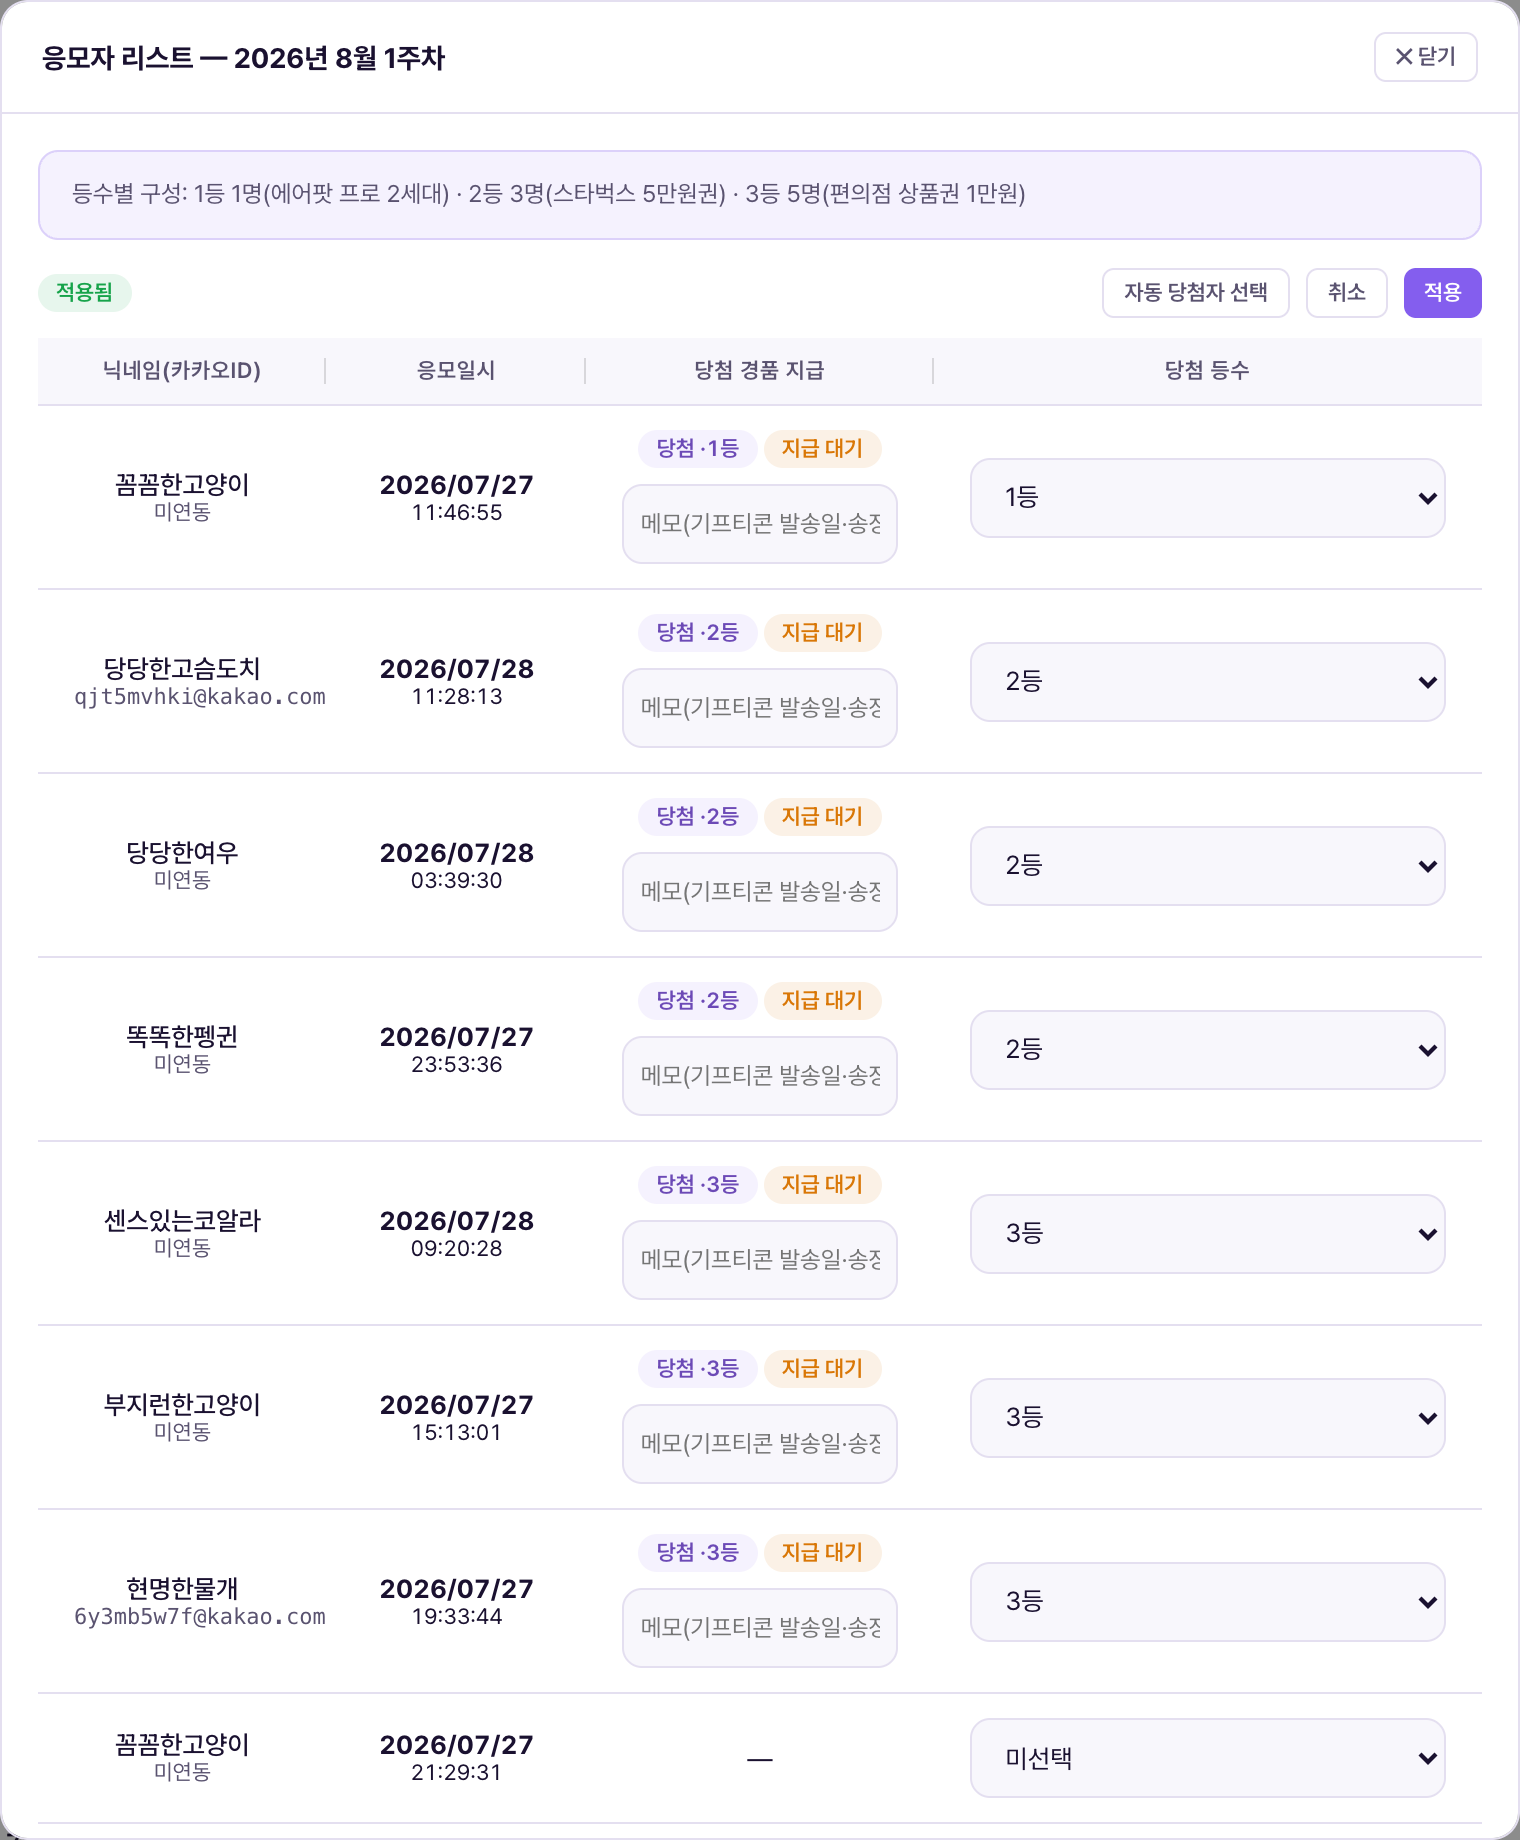
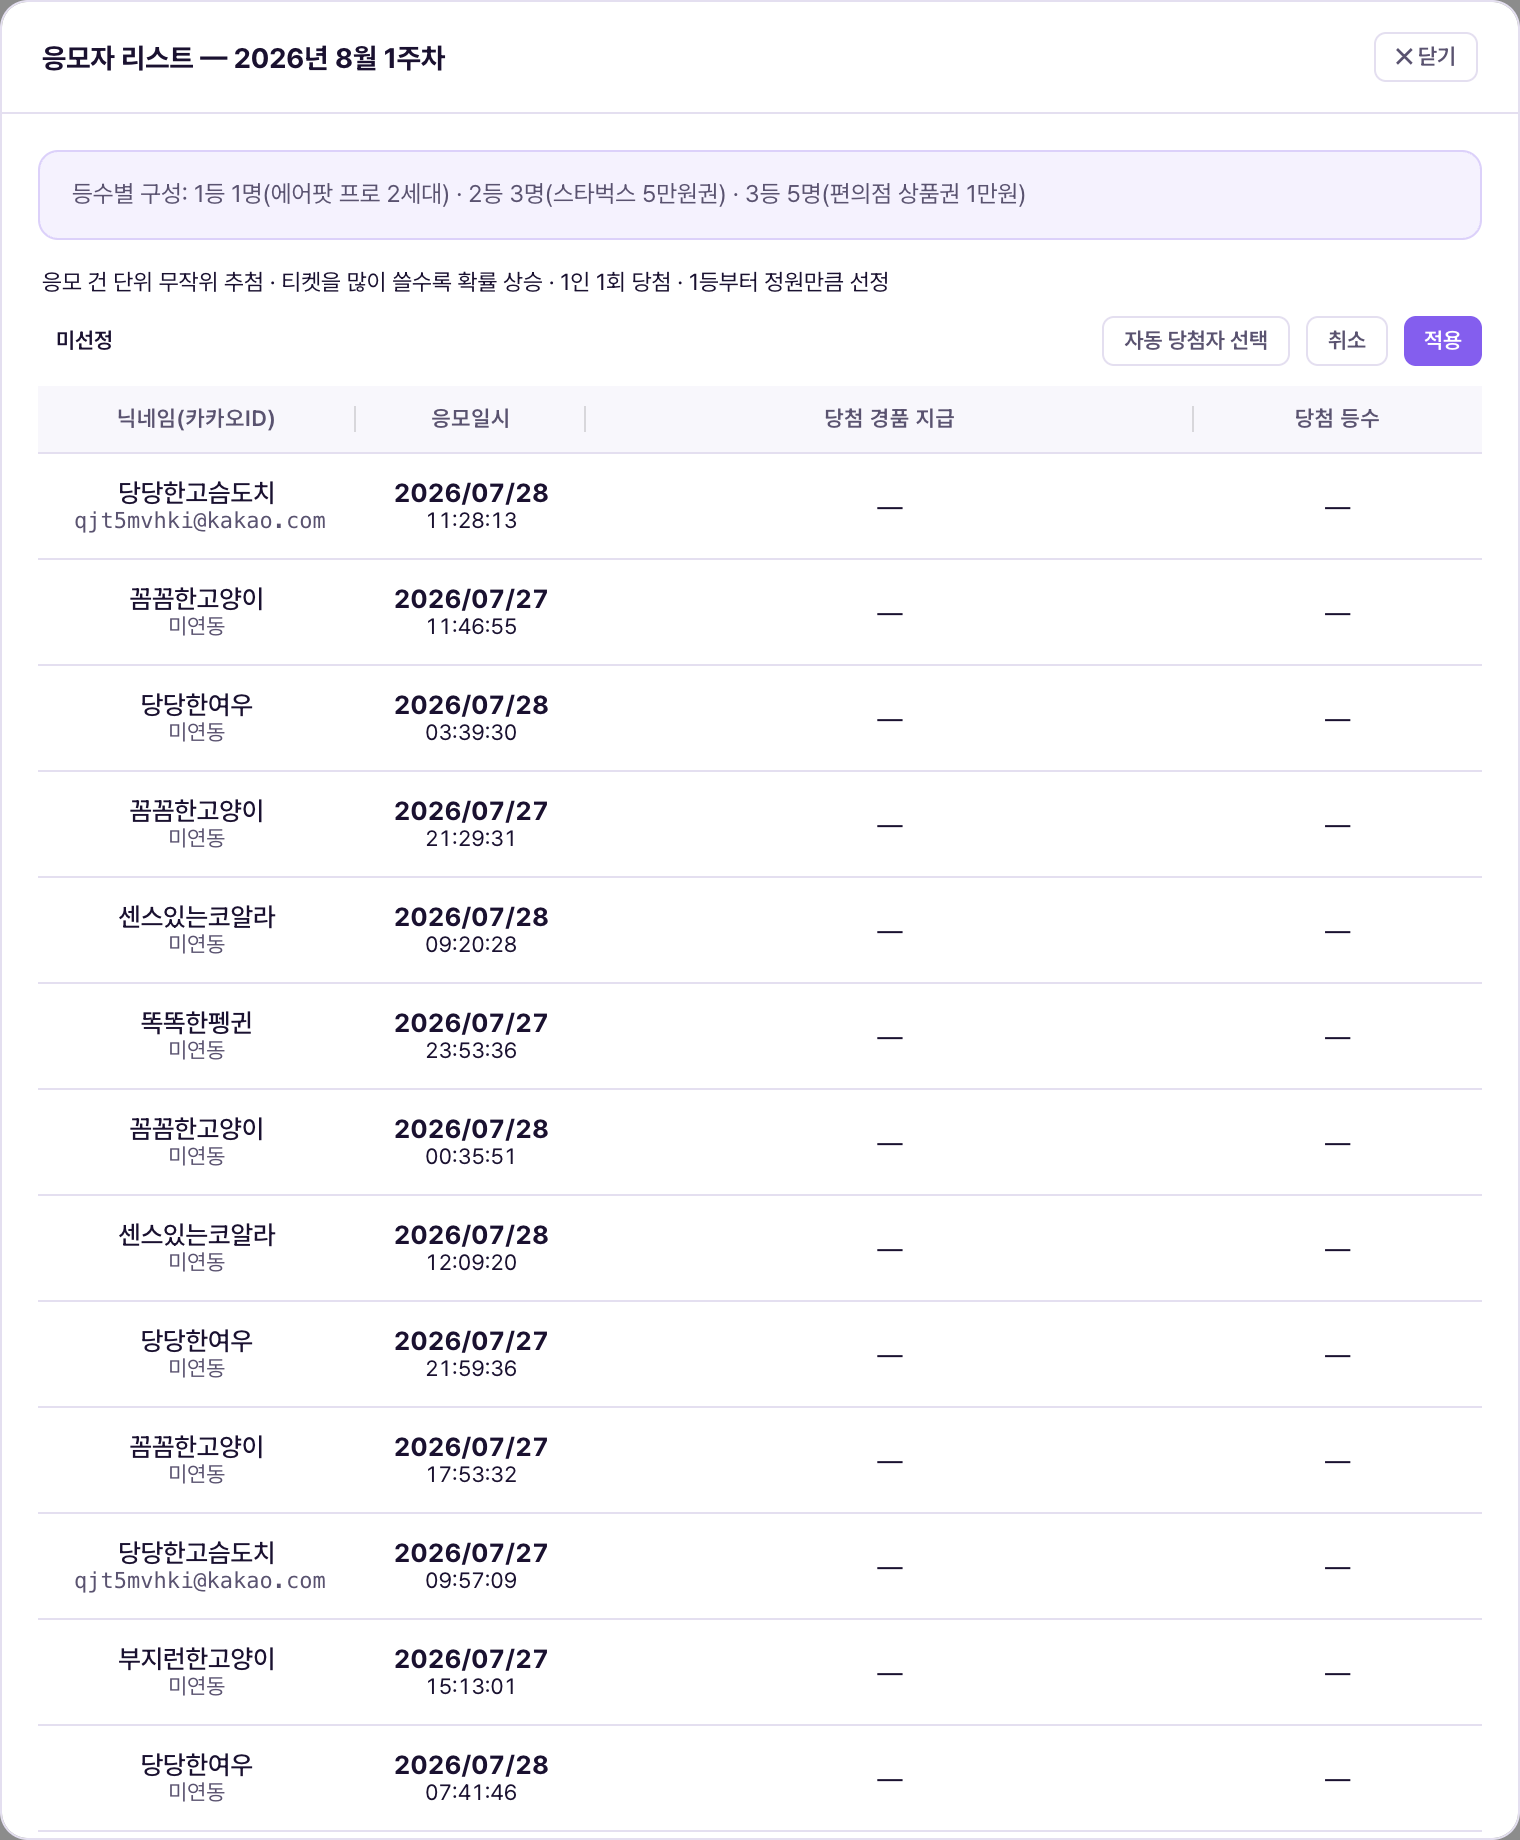
CMS 주간 이벤트 추첨: 수동 당첨자 선택 제거 + 자동 추첨 확률 로직 수정 (Track A 이식) + 설명서 갱신
- cms.html에 데모(Track B) 동일 변경 이식: 등수 드롭다운 제거(당첨 등수 컬럼은 결과 표시 전용), 자동 추첨을 사람 단위 균등 → 응모 건 단위 가중 추첨으로 수정, 조건 안내문구 추가(KO/VI)
- weekly-draws.html: 섹션 5에 자동 당첨 조건(응모 건 단위·확률 비례·1인 1회·정원까지 선정) 상세 서술 추가, 수동 선택 관련 서술 제거, 운영 시나리오 표의 "수동으로 바꾼 뒤" 문구를 재추첨 흐름으로 정정
- 응모자 리스트 캡처 2종 + VI 캡처를 새 UI(드롭다운 없음, 안내문구 표시) 기준으로 재캡처

diff --git a/cms-storyboard/weekly-draws.html b/cms-storyboard/weekly-draws.html
@@ -96,8 +96,10 @@ code{font-family:'SF Mono',Menlo,monospace;font-size:11.5px;background:var(--bg)
 
 <h2 class="sec"><span class="i18n"><span class="ko">5. 응모자 리스트 · 당첨자 선정</span><span class="vi">5. Danh sách người dự thưởng · Chọn người trúng</span></span></h2>
 <p><span class="i18n"><span class="ko">회차 행의 "응모 상세 보기"를 누르면 그 회차에 응모한 사람들이 뜬다. 표기는 닉네임과 카카오 아이디 두 줄뿐이다(내부 식별 아이디 같은 건 안 보여준다). 응모일시는 날짜와 시각까지 함께 나온다.</span><span class="vi">Bấm "Xem chi tiết dự thưởng" ở dòng đợt để xem người đã dự thưởng đợt đó. Chỉ hiển thị 2 dòng biệt danh và Kakao ID (không hiện ID định danh nội bộ). Thời điểm dự thưởng hiện cả ngày lẫn giờ.</span></span></p>
-<p><span class="i18n"><span class="ko">이벤트 티켓 <b>1장을 쓴 게 응모 1건이고, 리스트도 1행</b>이다. 그래서 한 사람이 티켓을 3장 썼으면 그 사람 이름으로 3행이 나란히 뜬다 — 한 사람이 여러 번 응모할 수 있다는 뜻이다. 당첨자를 뽑을 때도 이 응모 "행" 단위로 뽑는다(등수 슬롯에 응모 행 하나를 배정). 다만 <b>같은 사람이 등수 하나를 넘게 당첨되는 일은 막는다</b> — 이미 다른 응모 행으로 당첨 처리된 사람은 다시 고를 수 없다. 등수별 인원(슬롯) 이상으로 뽑는 것도 막힌다.</span><span class="vi">Dùng <b>1 vé sự kiện = 1 lượt dự thưởng = 1 dòng</b> trong danh sách. Vậy nếu 1 người dùng 3 vé thì tên người đó xuất hiện liền 3 dòng — nghĩa là 1 người có thể dự thưởng nhiều lần. Khi chọn người trúng cũng chọn theo đơn vị "dòng" dự thưởng này (gán 1 dòng dự thưởng vào 1 suất hạng). Nhưng <b>không cho phép 1 người trúng quá 1 hạng</b> — người đã trúng ở dòng dự thưởng khác thì không chọn lại được. Chọn vượt quá số suất (slot) của từng hạng cũng bị chặn.</span></span></p>
-<p><span class="i18n"><span class="ko">당첨 등수는 각 응모 행의 드롭다운에서 직접 고르거나(수동), "자동 당첨자 선택" 버튼으로 한 번에 무작위 배정할 수 있다(자동도 1인 1등수 규칙은 그대로 지킨다). 어느 쪽이든 <b>바로 저장되지 않는다</b> — 상단 "적용" 버튼을 눌러야 그 시점까지 고른 등수·지급 상태·메모가 한 번에 저장된다. 적용 전에는 리스트 위쪽 배지가 "적용 전 (임시 선택)"으로 뜨고, 적용을 누르면 "적용됨"으로 바뀐다. 당첨으로 선택된 응모 행에는 <b>"당첨 · N등" 뱃지</b>가 붙고, 이런 행들은 등수 순서로 리스트 맨 위에 모인다.</span><span class="vi">Có thể chọn hạng trúng thưởng trực tiếp ở dropdown từng dòng dự thưởng (thủ công), hoặc bấm "Chọn người trúng tự động" để gán ngẫu nhiên một lượt (tự động cũng vẫn giữ nguyên tắc 1 người 1 hạng). Dù chọn cách nào thì <b>không lưu ngay</b> — phải bấm nút "Áp dụng" phía trên để lưu một lần toàn bộ hạng đã chọn·trạng thái gửi quà·ghi chú tính đến thời điểm đó. Trước khi áp dụng, badge phía trên danh sách hiện "Trước khi áp dụng (chọn tạm)", bấm áp dụng thì đổi thành "Đã áp dụng". Dòng dự thưởng được chọn trúng sẽ có <b>badge "Trúng thưởng · Hạng N"</b>, và các dòng này được gom lên đầu danh sách theo thứ tự hạng.</span></span></p>
+<p><span class="i18n"><span class="ko">이벤트 티켓 <b>1장을 쓴 게 응모 1건이고, 리스트도 1행</b>이다. 그래서 한 사람이 티켓을 3장 썼으면 그 사람 이름으로 3행이 나란히 뜬다 — 한 사람이 여러 번 응모할 수 있다는 뜻이다. 당첨자 추첨도 이 응모 "행" 단위로 진행되기 때문에, 같은 사람이라도 <b>쓴 티켓이 많을수록(=응모 행이 많을수록) 당첨 확률이 그만큼 비례해서 올라간다</b>.</span><span class="vi">Dùng <b>1 vé sự kiện = 1 lượt dự thưởng = 1 dòng</b> trong danh sách. Vậy nếu 1 người dùng 3 vé thì tên người đó xuất hiện liền 3 dòng — nghĩa là 1 người có thể dự thưởng nhiều lần. Rút thăm người trúng cũng tiến hành theo đơn vị "dòng" dự thưởng này, nên dù cùng 1 người, <b>dùng càng nhiều vé (=càng nhiều dòng dự thưởng) thì xác suất trúng càng tăng theo tỷ lệ</b>.</span></span></p>
+<div class="callout"><div class="tt"><span class="i18n"><span class="ko">자동 당첨 조건</span><span class="vi">Điều kiện chọn người trúng tự động</span></span></div><span class="i18n"><span class="ko">응모 건 단위 무작위 추첨 · 티켓을 많이 쓸수록 확률 상승 · 1인 1회 당첨 · 1등부터 정원만큼 선정. 응모자 리스트 모달 상단에도 같은 문구가 안내로 붙어 있다.</span><span class="vi">Rút thăm ngẫu nhiên theo đơn vị lượt dự thưởng · Dùng càng nhiều vé thì xác suất trúng càng cao · Mỗi người chỉ trúng thưởng 1 lần · Chọn từ hạng 1 cho đến khi đủ số lượng. Cùng nội dung này cũng được ghi ở đầu modal danh sách người dự thưởng.</span></span></div>
+<p><span class="i18n"><span class="ko">당첨자는 오직 <b>"자동 당첨자 선택" 버튼</b>으로만 뽑는다 — 등수를 직접 지정하거나 바꾸는 기능은 없다. 버튼을 누르면 전체 응모 행을 무작위로 섞은 뒤 1등부터 등수별 정원만큼 순서대로 채우고, <b>같은 사람이 등수 하나를 넘게 당첨되는 일은 막는다</b>(이미 당첨된 사람의 다른 응모 행은 건너뜀). 결과가 마음에 안 들면 버튼을 다시 눌러 재추첨할 수 있고, 그때마다 이전 임시 선택은 새 결과로 완전히 교체된다.</span><span class="vi">Người trúng thưởng chỉ được chọn qua <b>nút "Chọn người trúng tự động"</b> — không có chức năng chỉ định hoặc đổi hạng thủ công. Bấm nút này sẽ xáo trộn ngẫu nhiên toàn bộ dòng dự thưởng rồi lấp đầy theo thứ tự từ hạng 1 đến khi đủ số lượng từng hạng, đồng thời <b>chặn việc 1 người trúng quá 1 hạng</b> (bỏ qua các dòng dự thưởng khác của người đã trúng). Nếu không ưng kết quả có thể bấm lại để rút thăm lại, mỗi lần như vậy lựa chọn tạm trước đó bị thay hoàn toàn bằng kết quả mới.</span></span></p>
+<p><span class="i18n"><span class="ko">추첨 결과는 <b>바로 저장되지 않는다</b> — 상단 "적용" 버튼을 눌러야 그 시점까지의 당첨 등수·지급 상태·메모가 한 번에 저장된다. 적용 전에는 리스트 위쪽 배지가 "적용 전 (임시 선택)"으로 뜨고, 적용을 누르면 "적용됨"으로 바뀐다. 당첨으로 뽑힌 응모 행에는 <b>"당첨 · N등" 뱃지</b>가 붙고, 이런 행들은 등수 순서로 리스트 맨 위에 모인다. <b>적용 후에도</b> "자동 당첨자 선택" → "적용"을 다시 누르면 당첨자를 재추첨해서 갈아엎을 수 있다.</span><span class="vi">Kết quả rút thăm <b>không lưu ngay</b> — phải bấm nút "Áp dụng" phía trên để lưu một lần toàn bộ hạng đã chọn·trạng thái gửi quà·ghi chú tính đến thời điểm đó. Trước khi áp dụng, badge phía trên danh sách hiện "Trước khi áp dụng (chọn tạm)", bấm áp dụng thì đổi thành "Đã áp dụng". Dòng dự thưởng được chọn trúng sẽ có <b>badge "Trúng thưởng · Hạng N"</b>, và các dòng này được gom lên đầu danh sách theo thứ tự hạng. <b>Kể cả sau khi đã áp dụng</b>, bấm lại "Chọn người trúng tự động" → "Áp dụng" vẫn có thể rút thăm lại và ghi đè người trúng.</span></span></p>
 <div class="shot"><img src="img/weekly-draws-02-entrants-modal.png" alt="응모자 리스트 — 미선정 상태, 다중 응모"><div class="cap"><span class="i18n"><span class="ko">실측 캡처 — 응모자 리스트(미선정 상태). 같은 닉네임이 여러 행에 반복되는 게 다중 응모</span><span class="vi">Ảnh chụp thực tế — danh sách người dự thưởng (trạng thái chưa chọn). Cùng 1 biệt danh lặp lại nhiều dòng là dự thưởng nhiều lần</span></span></div></div>
 
 <h2 class="sec"><span class="i18n"><span class="ko">6. 지급 관리</span><span class="vi">6. Quản lý gửi quà</span></span></h2>
@@ -108,7 +110,7 @@ code{font-family:'SF Mono',Menlo,monospace;font-size:11.5px;background:var(--bg)
 <h2 class="sec"><span class="i18n"><span class="ko">7. 운영 시나리오</span><span class="vi">7. Kịch bản vận hành</span></span></h2>
 <table>
   <tr><th style="width:190px"><span class="i18n"><span class="ko">상황</span><span class="vi">Tình huống</span></span></th><th><span class="i18n"><span class="ko">운영자가 하는 일</span><span class="vi">Việc Vận hành viên làm</span></span></th><th><span class="i18n"><span class="ko">결과</span><span class="vi">Kết quả</span></span></th></tr>
-  <tr><td><b><span class="i18n"><span class="ko">이번 주 당첨자 발표</span><span class="vi">Công bố người trúng tuần này</span></span></b></td><td><span class="i18n"><span class="ko">마감된 회차의 "응모 상세 보기" → "자동 당첨자 선택" → 필요하면 몇 명 수동으로 바꾼 뒤 "적용"</span><span class="vi">Bấm "Xem chi tiết dự thưởng" của đợt đã đóng → "Chọn người trúng tự động" → sửa thủ công vài người nếu cần → bấm "Áp dụng"</span></span></td><td><span class="i18n"><span class="ko">당첨자가 확정되고 회차 리스트의 "당첨자" 칸에도 등수별로 표시됨</span><span class="vi">Người trúng được chốt và cột "Người trúng" ở danh sách đợt cũng hiện theo hạng</span></span></td></tr>
+  <tr><td><b><span class="i18n"><span class="ko">이번 주 당첨자 발표</span><span class="vi">Công bố người trúng tuần này</span></span></b></td><td><span class="i18n"><span class="ko">마감된 회차의 "응모 상세 보기" → "자동 당첨자 선택" → 결과가 마음에 안 들면 다시 "자동 당첨자 선택" → 확정되면 "적용"</span><span class="vi">Bấm "Xem chi tiết dự thưởng" của đợt đã đóng → "Chọn người trúng tự động" → nếu không ưng thì bấm lại "Chọn người trúng tự động" → khi ổn thì bấm "Áp dụng"</span></span></td><td><span class="i18n"><span class="ko">당첨자가 확정되고 회차 리스트의 "당첨자" 칸에도 등수별로 표시됨</span><span class="vi">Người trúng được chốt và cột "Người trúng" ở danh sách đợt cũng hiện theo hạng</span></span></td></tr>
   <tr><td><b><span class="i18n"><span class="ko">경품 발송 완료 표시</span><span class="vi">Đánh dấu đã gửi quà</span></span></b></td><td><span class="i18n"><span class="ko">해당 당첨자의 지급 상태 뱃지를 눌러 "지급 완료"로, 메모칸에 발송일 등 입력 → "적용"</span><span class="vi">Bấm badge trạng thái gửi quà của người trúng đó sang "Đã gửi quà", nhập ngày gửi v.v. vào ô ghi chú → "Áp dụng"</span></span></td><td><span class="i18n"><span class="ko">다음에 리스트를 열어도 지급 완료 상태와 메모가 그대로 남아 있음</span><span class="vi">Lần sau mở lại danh sách vẫn giữ nguyên trạng thái đã gửi và ghi chú</span></span></td></tr>
   <tr><td><b><span class="i18n"><span class="ko">이번 달 경품을 바꾸고 싶을 때</span><span class="vi">Khi muốn đổi quà tháng này</span></span></b></td><td><span class="i18n"><span class="ko">"기본 경품 구성 템플릿 편집"에서 템플릿을 바꾸거나, 이미 생성된 특정 회차만 "경품 수정"으로 개별 변경</span><span class="vi">Đổi mẫu ở "Sửa mẫu cấu hình quà mặc định", hoặc chỉ đổi riêng 1 đợt đã tạo qua "Chỉnh sửa giải thưởng"</span></span></td><td><span class="i18n"><span class="ko">템플릿 변경은 이후 새로 생기는 회차부터, 개별 수정은 그 회차에만 적용</span><span class="vi">Đổi mẫu áp dụng từ đợt tạo sau đó, sửa riêng chỉ áp dụng cho đợt đó</span></span></td></tr>
 </table>
